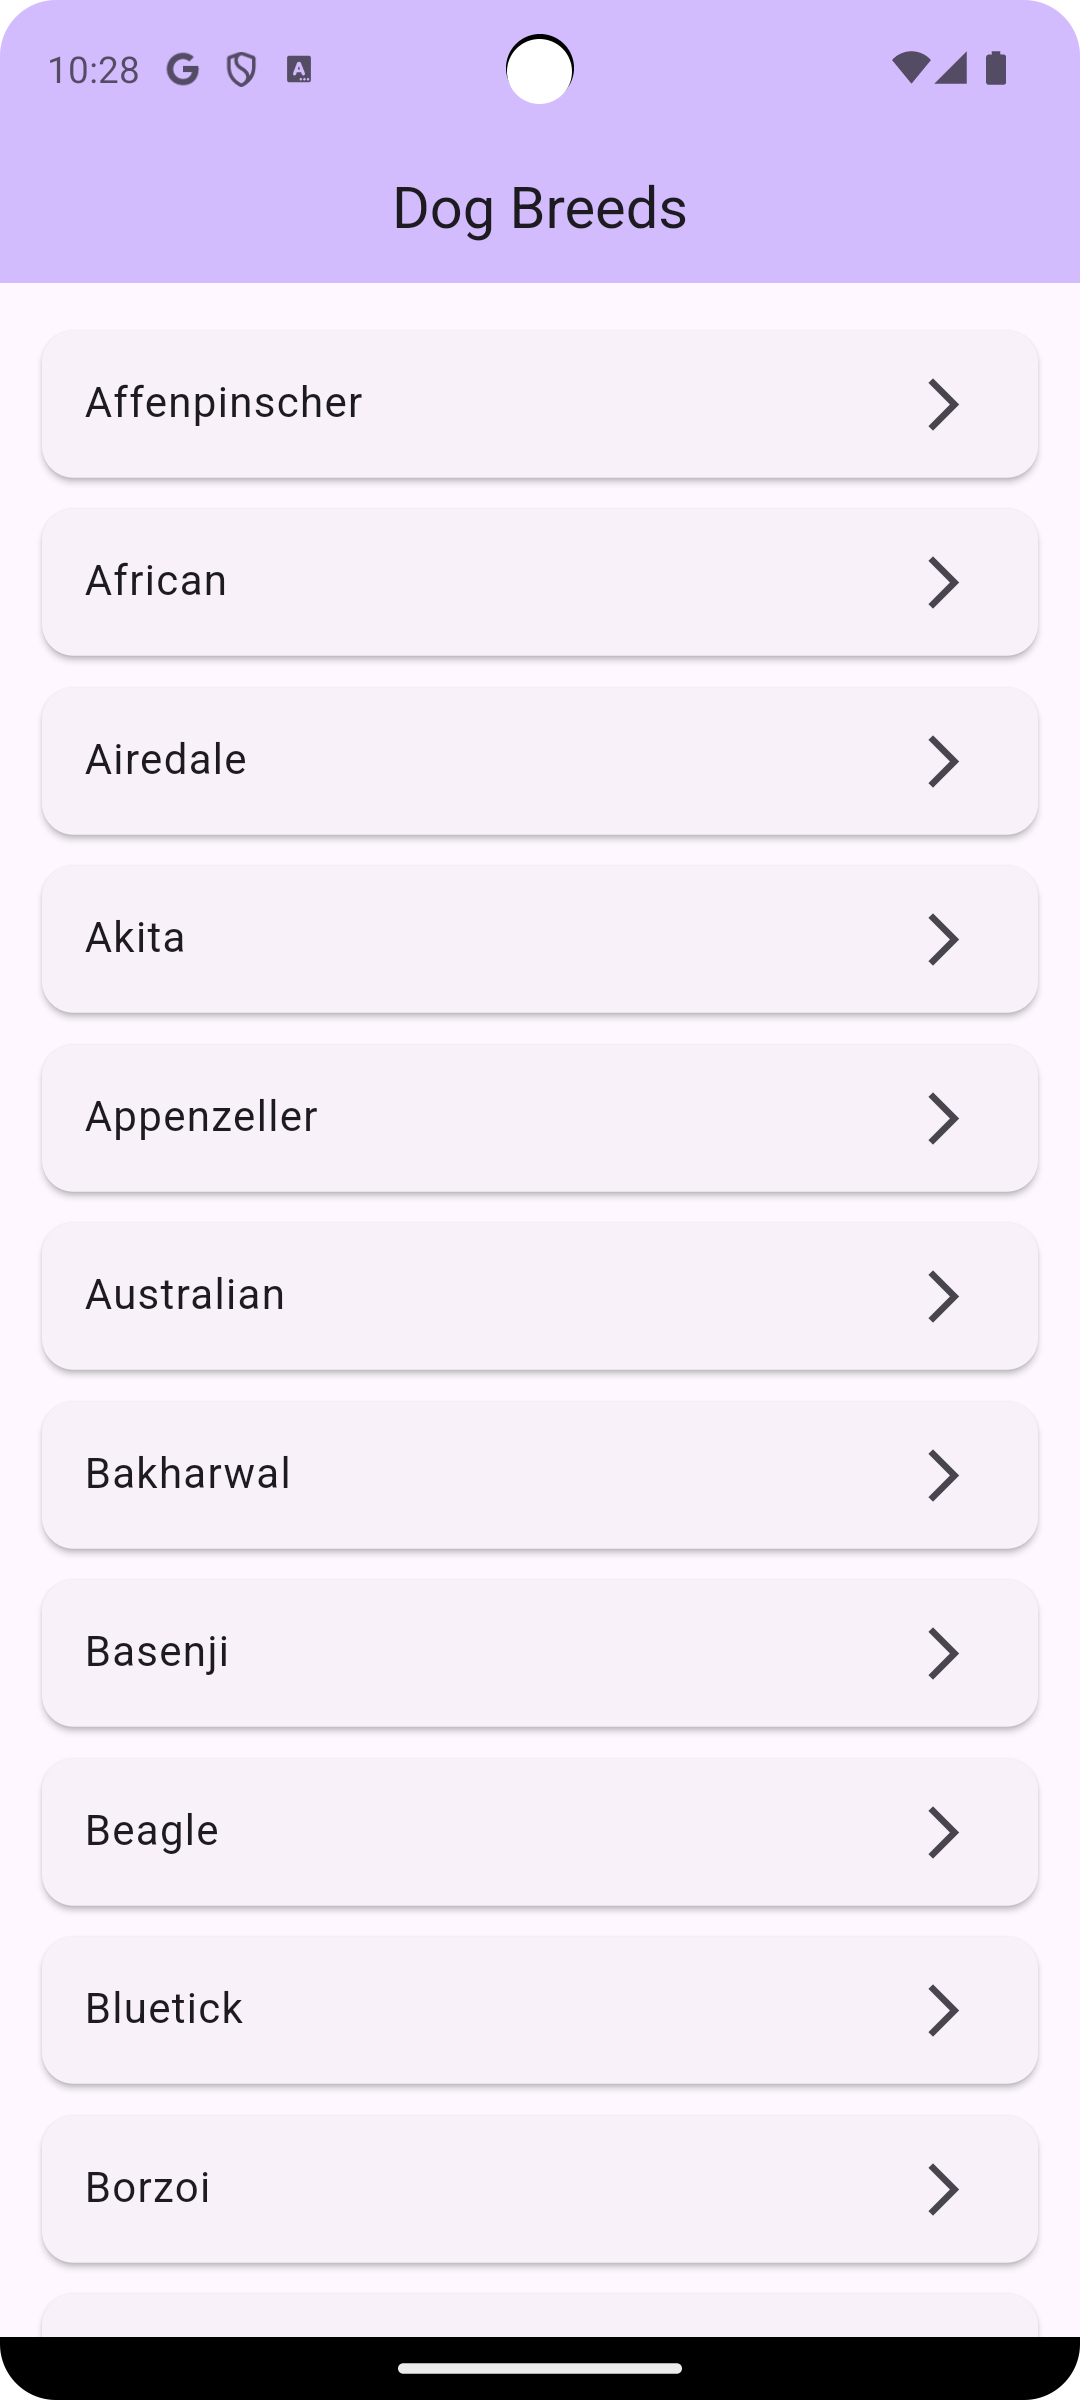
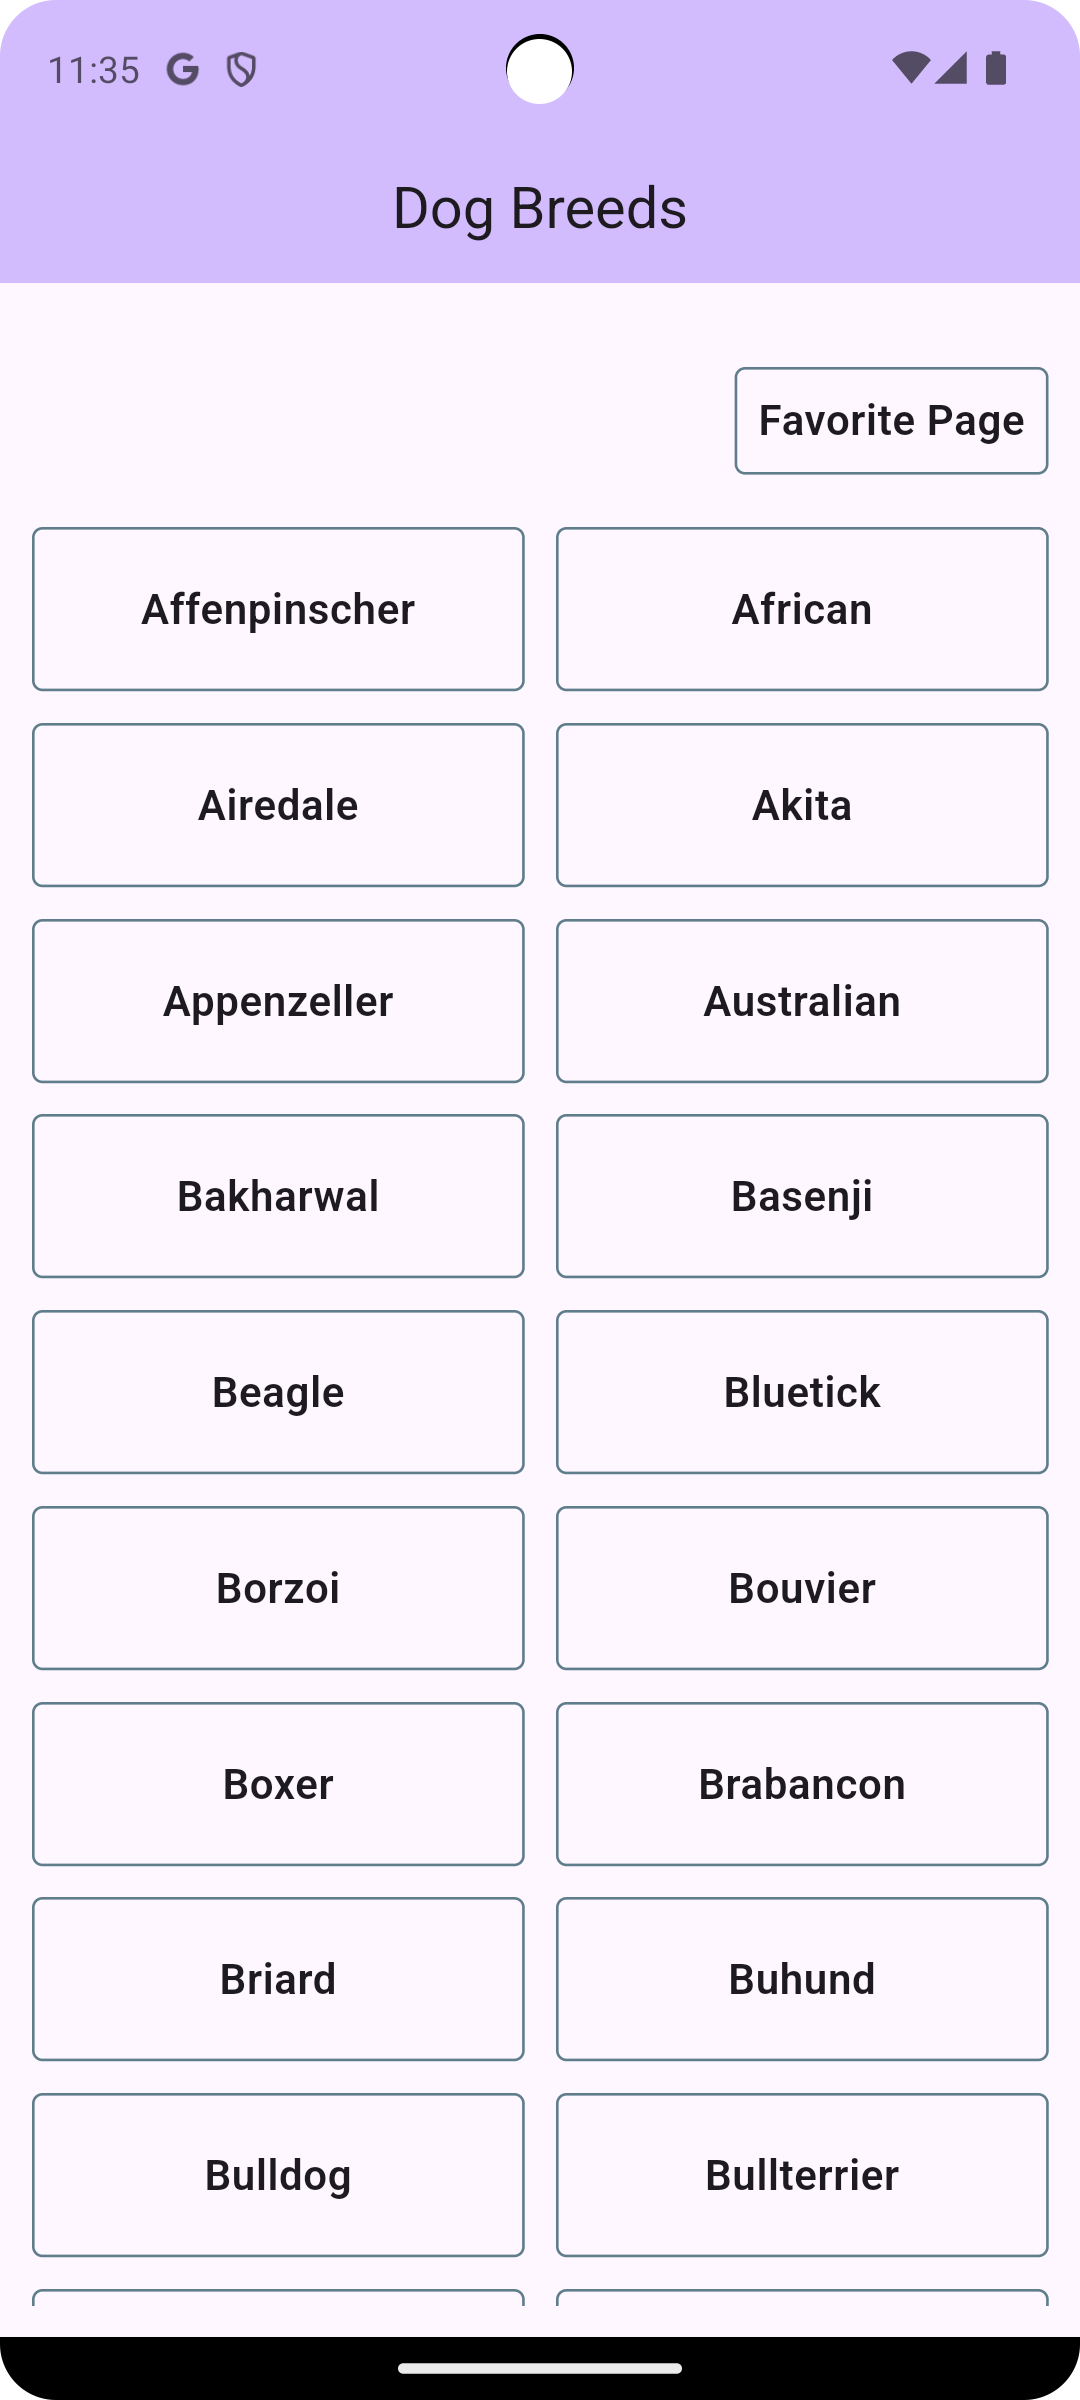
Merge pull request #5 from moseskamira/ft-improve-images-design
Improve Image Design

Pull request: Improve Image Design
## What does this PR do?
- This PR is intended to improve image design

diff --git a/lib/presentation/pages/homepage/widgets/breed_widget.dart b/lib/presentation/pages/homepage/widgets/breed_widget.dart
@@ -1,0 +1,42 @@
+import 'package:flutter/material.dart';
+
+import '../../breedimages/breed_images_page.dart';
+
+class BreedWidget extends StatelessWidget {
+  final String breed;
+
+  const BreedWidget({super.key, required this.breed});
+
+  @override
+  Widget build(BuildContext context) {
+    return InkWell(
+      onTap: () {
+        Navigator.push(
+          context,
+          MaterialPageRoute(
+            builder: (_) => BreedImagesPage(breedName: breed),
+          ),
+        );
+      },
+      child: Container(
+        decoration: BoxDecoration(
+          borderRadius: BorderRadius.circular(4),
+          border: Border.all(width: 1, color: Colors.blueGrey),
+        ),
+        child: Center(
+          child: Padding(
+            padding: const EdgeInsets.all(16.0),
+            child: Text(
+              breed[0].toUpperCase() + breed.substring(1),
+              style: const TextStyle(
+                fontSize: 16,
+                fontWeight: FontWeight.w600,
+              ),
+              textAlign: TextAlign.center,
+            ),
+          ),
+        ),
+      ),
+    );
+  }
+}

diff --git a/lib/presentation/pages/homepage/home_page.dart b/lib/presentation/pages/homepage/home_page.dart
@@ -1,6 +1,7 @@
 import 'package:dogs/presentation/bloc/dogs_bloc/breeds_cubit.dart';
 import 'package:dogs/presentation/bloc/dogs_bloc/breeds_cubit_state.dart';
-import 'package:dogs/presentation/pages/homepage/widgets/breed_card.dart';
+import 'package:dogs/presentation/pages/homepage/widgets/breed_widget.dart';
+import 'package:dogs/presentation/pages/homepage/widgets/fav_button.dart';
 import 'package:flutter/material.dart';
 import 'package:flutter_bloc/flutter_bloc.dart';
 
@@ -51,16 +52,36 @@ class _MyHomePageState extends State<MyHomePage> {
           if (state is DBLoginState) {
             return const Center(child: CircularProgressIndicator());
           }
-          return ListView.builder(
-            padding: const EdgeInsets.symmetric(
-              horizontal: 16,
-              vertical: 12,
+
+          return Padding(
+            padding: const EdgeInsets.all(12.0),
+            child: Column(
+              children: [
+                Padding(
+                  padding: const EdgeInsets.symmetric(vertical: 20),
+                  child: Row(
+                    mainAxisAlignment: MainAxisAlignment.end,
+                    children: [FavButton()],
+                  ),
+                ),
+                Expanded(
+                  child: GridView.builder(
+                    itemCount: breedKeys.length,
+                    gridDelegate:
+                        const SliverGridDelegateWithFixedCrossAxisCount(
+                      crossAxisCount: 2,
+                      mainAxisSpacing: 12,
+                      crossAxisSpacing: 12,
+                      childAspectRatio: 3 / 1,
+                    ),
+                    itemBuilder: (context, index) {
+                      final breed = breedKeys[index];
+                      return BreedWidget(breed: breed);
+                    },
+                  ),
+                ),
+              ],
             ),
-            itemCount: breedKeys.length,
-            itemBuilder: (context, index) {
-              final breed = breedKeys[index];
-              return BreedCard(breed: breed);
-            },
           );
         },
       ),

diff --git a/lib/presentation/pages/homepage/widgets/fav_button.dart b/lib/presentation/pages/homepage/widgets/fav_button.dart
@@ -1,0 +1,38 @@
+import 'package:flutter/material.dart';
+
+class FavButton extends StatelessWidget {
+  const FavButton({super.key});
+
+  @override
+  Widget build(BuildContext context) {
+    return InkWell(
+      onTap: () {
+        // Navigator.push(
+        //   context,
+        //   MaterialPageRoute(
+        //     builder: (_) => BreedImagesPage(breedName: breed),
+        //   ),
+        // );
+      },
+      child: Container(
+        decoration: BoxDecoration(
+          borderRadius: BorderRadius.circular(4),
+          border: Border.all(width: 1, color: Colors.blueGrey),
+        ),
+        child: Center(
+          child: Padding(
+            padding: const EdgeInsets.all(8.0),
+            child: Text(
+              'Favorite Page',
+              style: const TextStyle(
+                fontSize: 16,
+                fontWeight: FontWeight.w600,
+              ),
+              textAlign: TextAlign.center,
+            ),
+          ),
+        ),
+      ),
+    );
+  }
+}